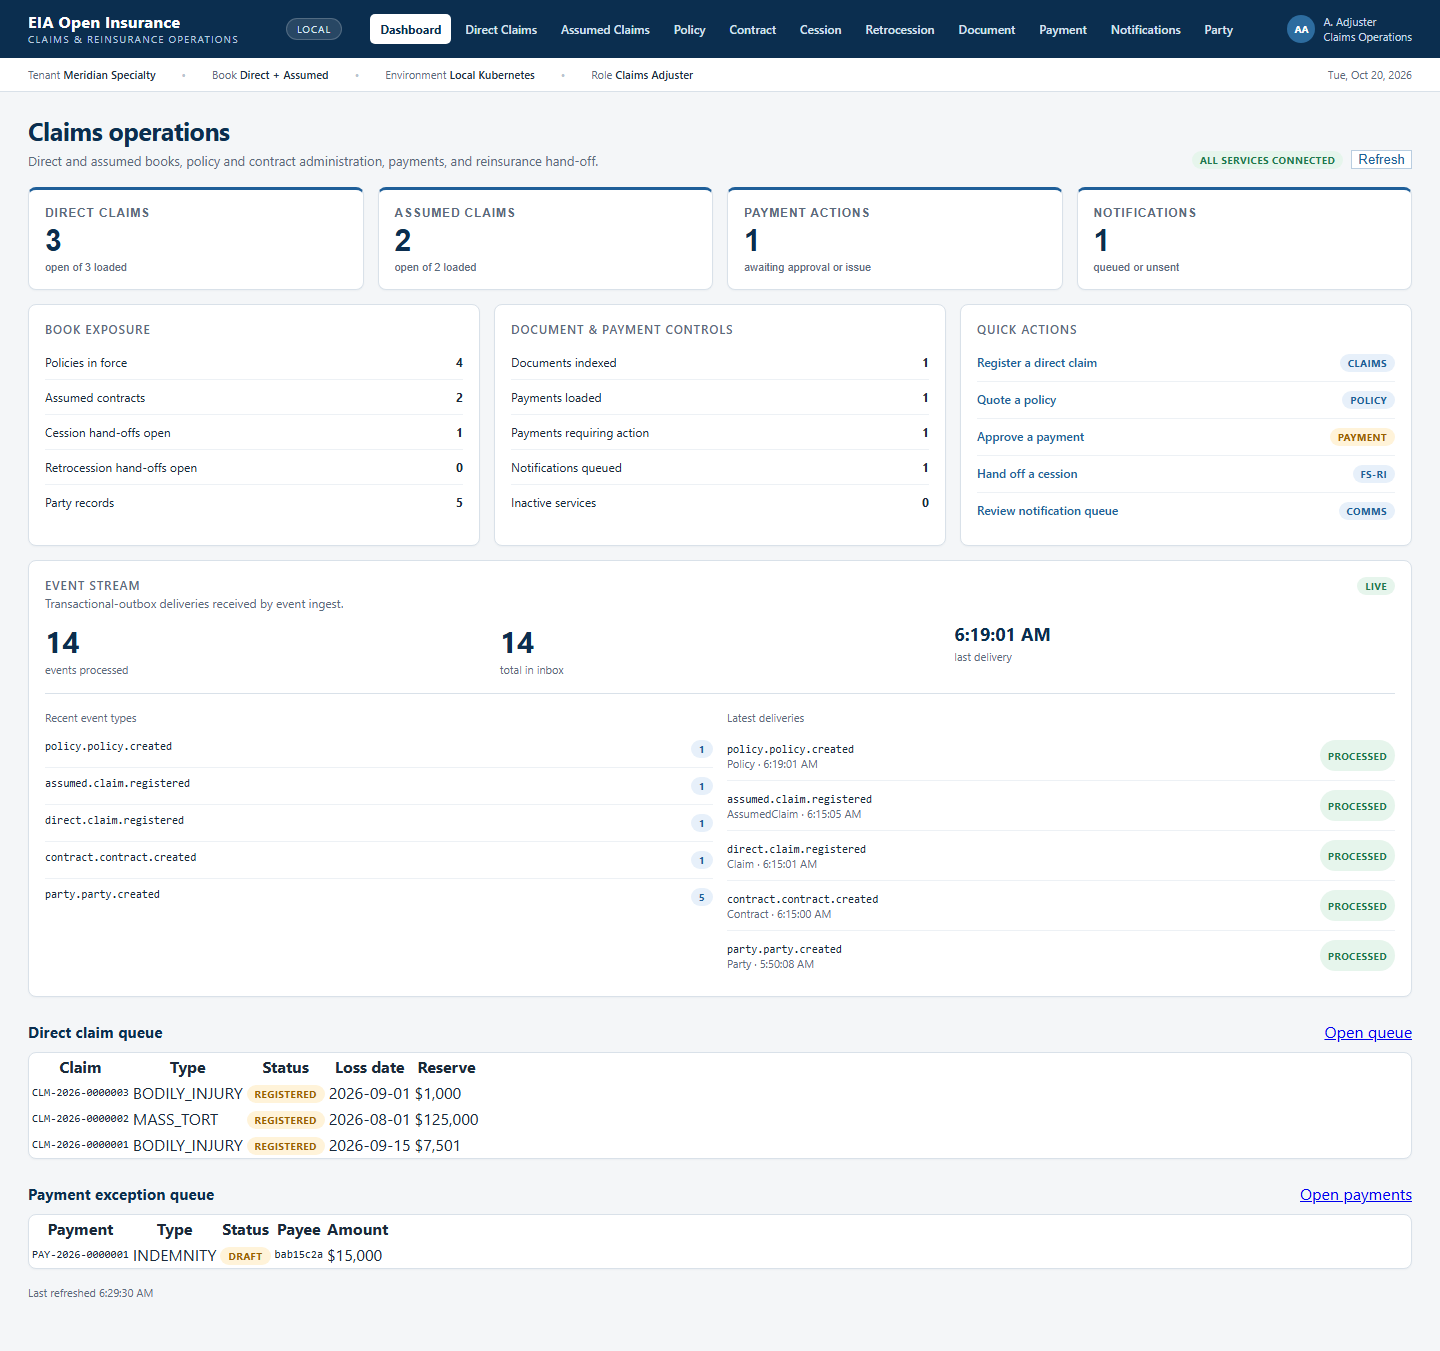
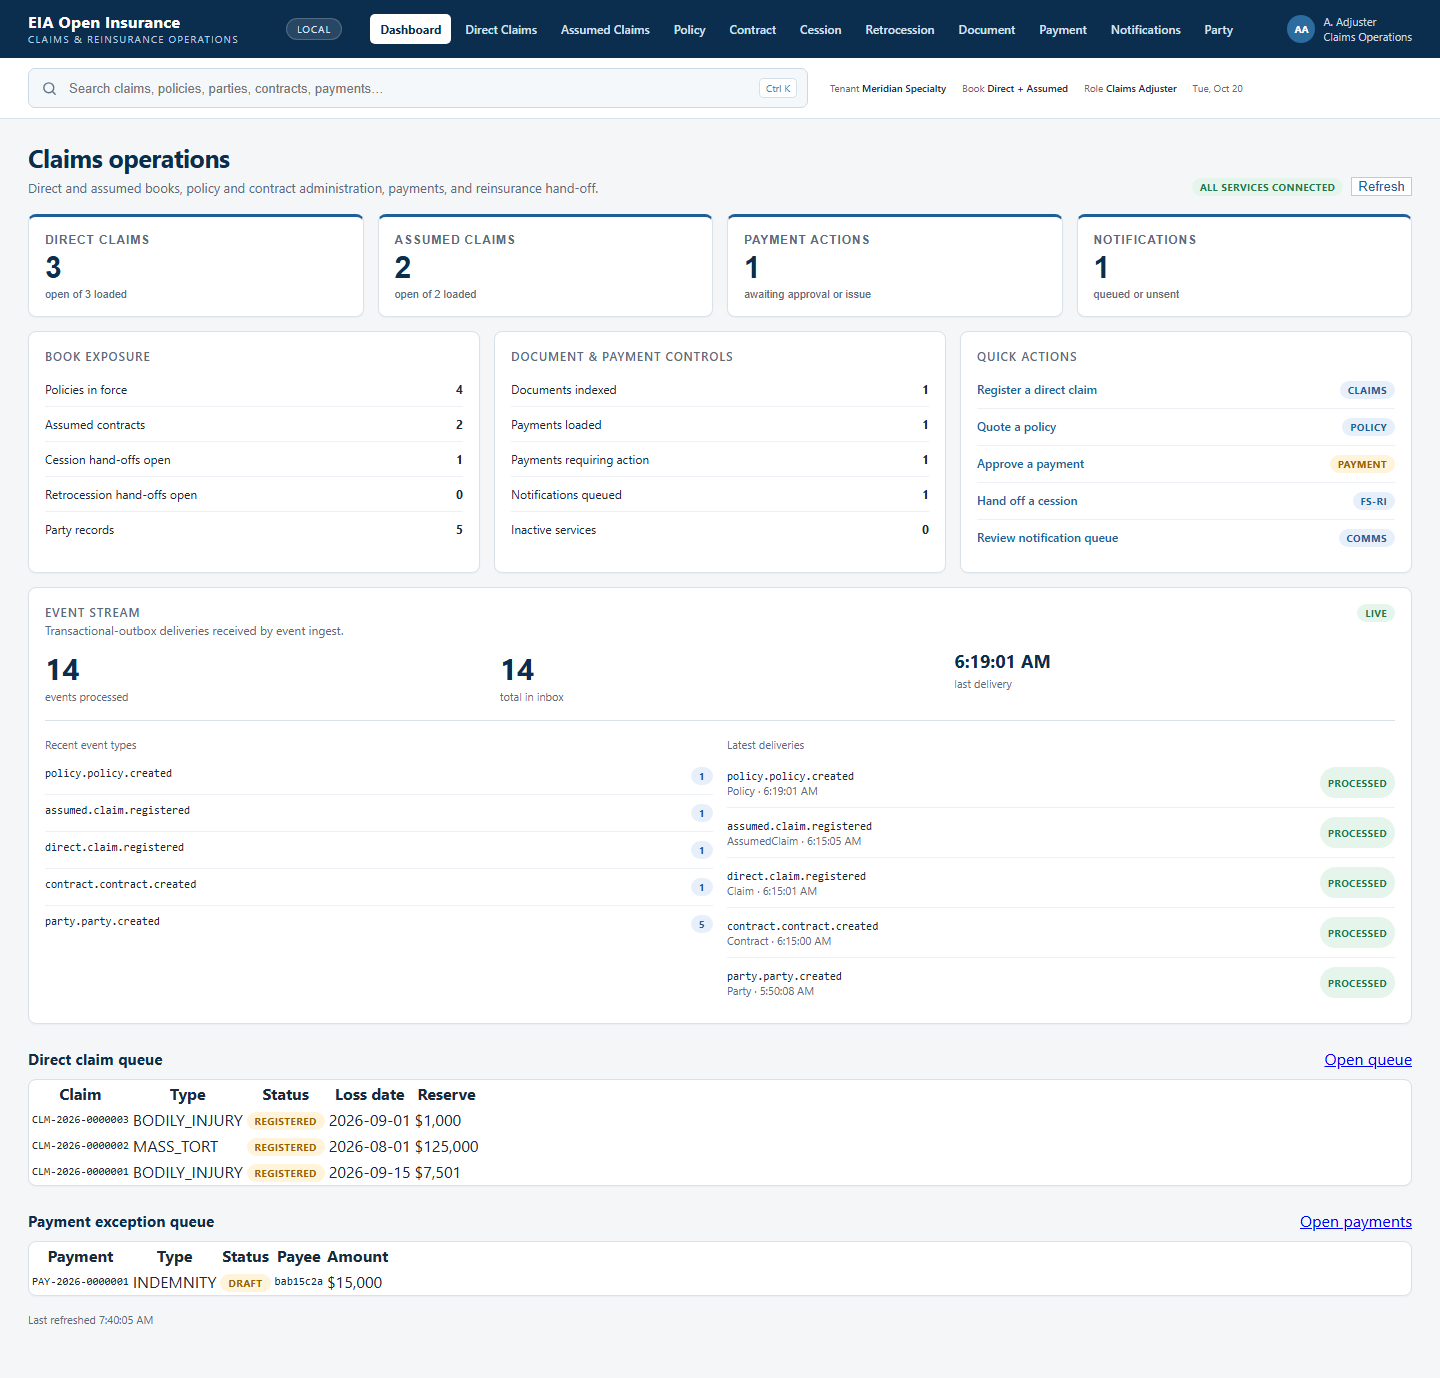
docs: record search-first UX and 1,324-test verification

diff --git a/docs/EVIDENCE.md b/docs/EVIDENCE.md
@@ -11,7 +11,7 @@ exit code: 0
 ```
 
 - 37 repositories checked.
-- 156 JUnit suites, **1,206 tests, 0 failures/errors**.
+- 167 JUnit suites, **1,324 tests, 0 failures/errors**.
 - 11 Playwright suites: 10 vertical workbenches plus the shell.
 
 ## Running stack
@@ -132,7 +132,7 @@ exit code: 0
 ```
 
 - 37 repositories checked.
-- 156 JUnit suites, **1,206 tests, 0 failures**.
+- 167 JUnit suites, **1,324 tests, 0 failures**.
 - 12 Playwright suites, including the opt-in live all-vertical suite.
 - Kubernetes namespace `eia-local`: **37/37 pods Ready**.
 - Gateway smoke: **10/10 vertical APIs**.
@@ -159,3 +159,17 @@ exit code: 0
 - Live evidence: 14 events, 14 processed, 0 failed; policy, contract, direct-claim, assumed-claim, party, payment, document, notification events observed.
 - Dashboard Event Stream card shows processed/total counts, recent types, latest deliveries, and LIVE status.
 - Contracts updated to 168 published events and 8,607 checks, 0 failures.
+
+## Round 8: global search, record discovery, and cross-links
+
+- Common search endpoint on all ten verticals: `GET /api/v1/{resource}/search?q=&limit=`.
+- Shared response: `{query, limit, items[{id,type,label,secondary,status,href}]}`.
+- Tenant-scoped; book-scoped verticals enforce DIRECT/ASSUMED before returning results.
+- Shell global search (Ctrl+K) across all ten verticals, grouped results, create actions, recent searches, keyboard navigation, and direct record links.
+- Each workbench has a prominent queue filter, `?record=` deep-link selection, and `?new=1` create entry.
+- Predictive typeahead pickers for party, policy, contract, and payee fields replace raw UUID entry.
+- Cross-links between claim/policy/party/contract/cession/retrocession/payment/notification records.
+- Related-label resolution shows policy, contract, and party numbers/names instead of UUIDs, with graceful fallback.
+- Process context panels explain why the record matters and where it sits in the workflow.
+- Contracts: ten search paths, 8,874 checks, 0 failures.
+- Live Kubernetes suite: 13/13 (dashboard, event stream, ten verticals, search-open-record, search-create-claim).

diff --git a/docs/KUBERNETES_EVIDENCE.md b/docs/KUBERNETES_EVIDENCE.md
@@ -149,3 +149,17 @@ The UI uses the same header, queue, record panel, summary cards, tab strip, form
 - All ten expert Deployments carry the transactional outbox endpoint and signing secret.
 - Event Stream dashboard card is fed by `/api/v1/events/stats` and `/recent`.
 - Live smoke: 14 events processed, 0 failed; 38/38 pods Ready.
+
+## Global record search
+
+The shell now carries a persistent Ctrl+K search across all ten verticals. It groups results, shows record status and secondary context, supports keyboard navigation, and offers create actions for every record type.
+
+![Global search](images/global-search.png)
+
+![Predictive form entry](images/predictive-form.png)
+
+- Search endpoints are tenant-scoped and book-walled.
+- Deep links (`?record=`) select the record in its workbench.
+- `?new=1` opens creation from search.
+- Cross-links navigate between related records in the SPA.
+- Live suite after deployment: **13/13 passed**, including search-open-record and search-create-claim.

diff --git a/docs/PROGRESS.md b/docs/PROGRESS.md
@@ -63,3 +63,11 @@
 - Kubernetes and Compose deliver signed events from every expert.
 - Dashboard event stream shows processed counts, event types, latest deliveries, and live status.
 - Full matrix: 156 suites, 1,206 tests, 0 failures.
+
+## Round 8: search-first operational UX
+
+- Global search across all ten verticals with grouped results and create actions.
+- Deep links, queue filters, and predictive pickers across all ten workbenches.
+- Cross-links and process-context panels between policy, claim, party, contract, cession, retrocession, payment, and notification records.
+- Search contracts and validation: 8,874 checks.
+- Full matrix: 167 suites, 1,324 tests, 0 failures.
